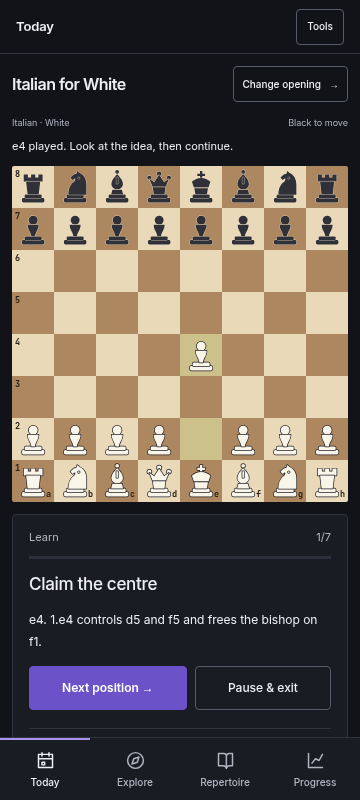
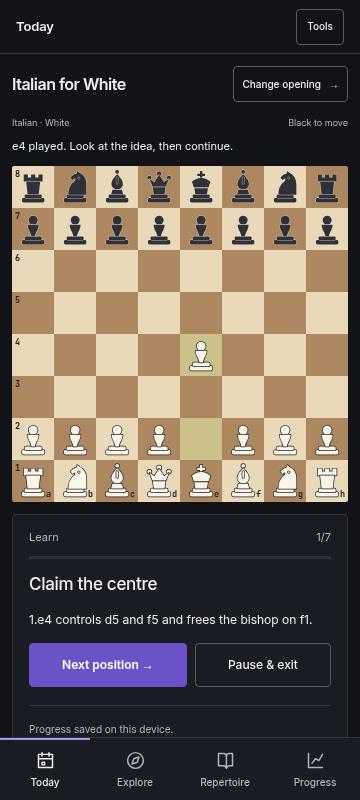
Keep lesson feedback concise beside the board

Changed region(s): [[0.0611, 0.75, 0.6417, 0.9375], [0.6417, 0.8125, 0.825, 0.875], [0.6722, 0.75, 0.8861, 0.7812]]

diff --git a/chess-dashboard/public/app/training.js b/chess-dashboard/public/app/training.js
@@ -103,7 +103,7 @@
         if (token !== generation || !active) return;
         const expected = next.legal.find((m) => m.san === c.move);
         present(next, { arrows: session.helped && expected ? [{ from: expected.from, to: expected.to, kind: 'best' }] : [] });
-        if (session.solved && !feedback) feedback = `${c.move}. ${c.why}`;
+        if (session.solved && !feedback) feedback = c.why;
       }
     } catch (err) { if (token === generation && active) showError(err); }
     finally { if (token === generation && active) { busy = false; render(); } }
@@ -187,7 +187,7 @@
       if (token !== generation || !active) return;
       const result = outcome();
       resolved(result, move.san);
-      feedback = `${move.san}. ${c.why}${session.mode === 'recall' ? result === 'independent' ? ' Answered without help.' : ' Recorded as assisted practice, not independent recall.' : ''}`;
+      feedback = `${c.why}${session.mode === 'recall' ? result === 'independent' ? ' Answered without help.' : ' Recorded as assisted practice, not independent recall.' : ''}`;
       present(next, { lastMove: move });
     } catch (err) { if (token === generation && active) showError(err); }
     finally { if (token === generation && active) { busy = false; render(); } }
@@ -206,7 +206,7 @@
       const next = await LB.position(null, null, [...card().line, card().move]);
       if (token !== generation || !active) return;
       resolved(session.misses ? 'missed' : 'revealed', card().move);
-      feedback = `${card().move}. ${card().why} Answer shown; this does not count as independent recall.`;
+      feedback = `${card().why} Answer shown; this does not count as independent recall.`;
       present(next);
     } catch (err) { if (token === generation && active) showError(err); }
     finally { if (token === generation && active) { busy = false; render(); } }
